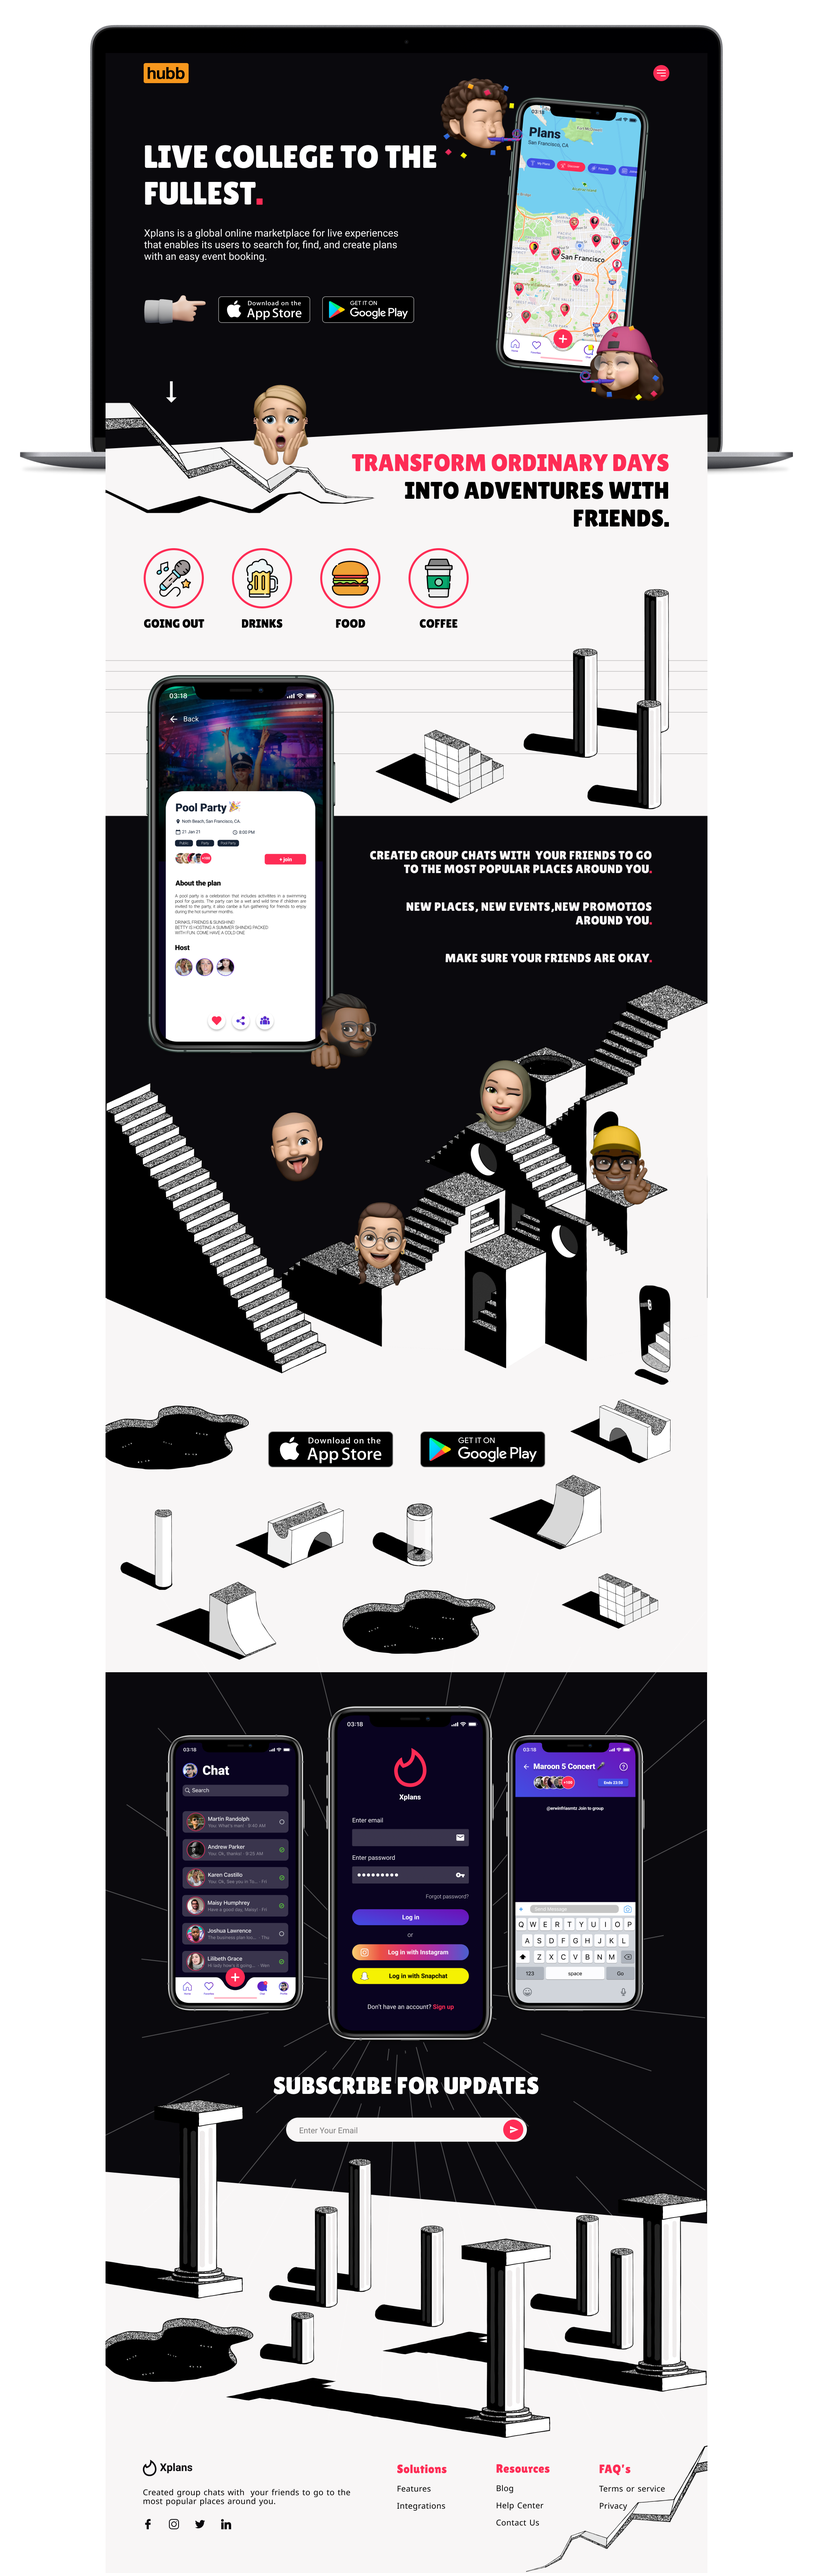
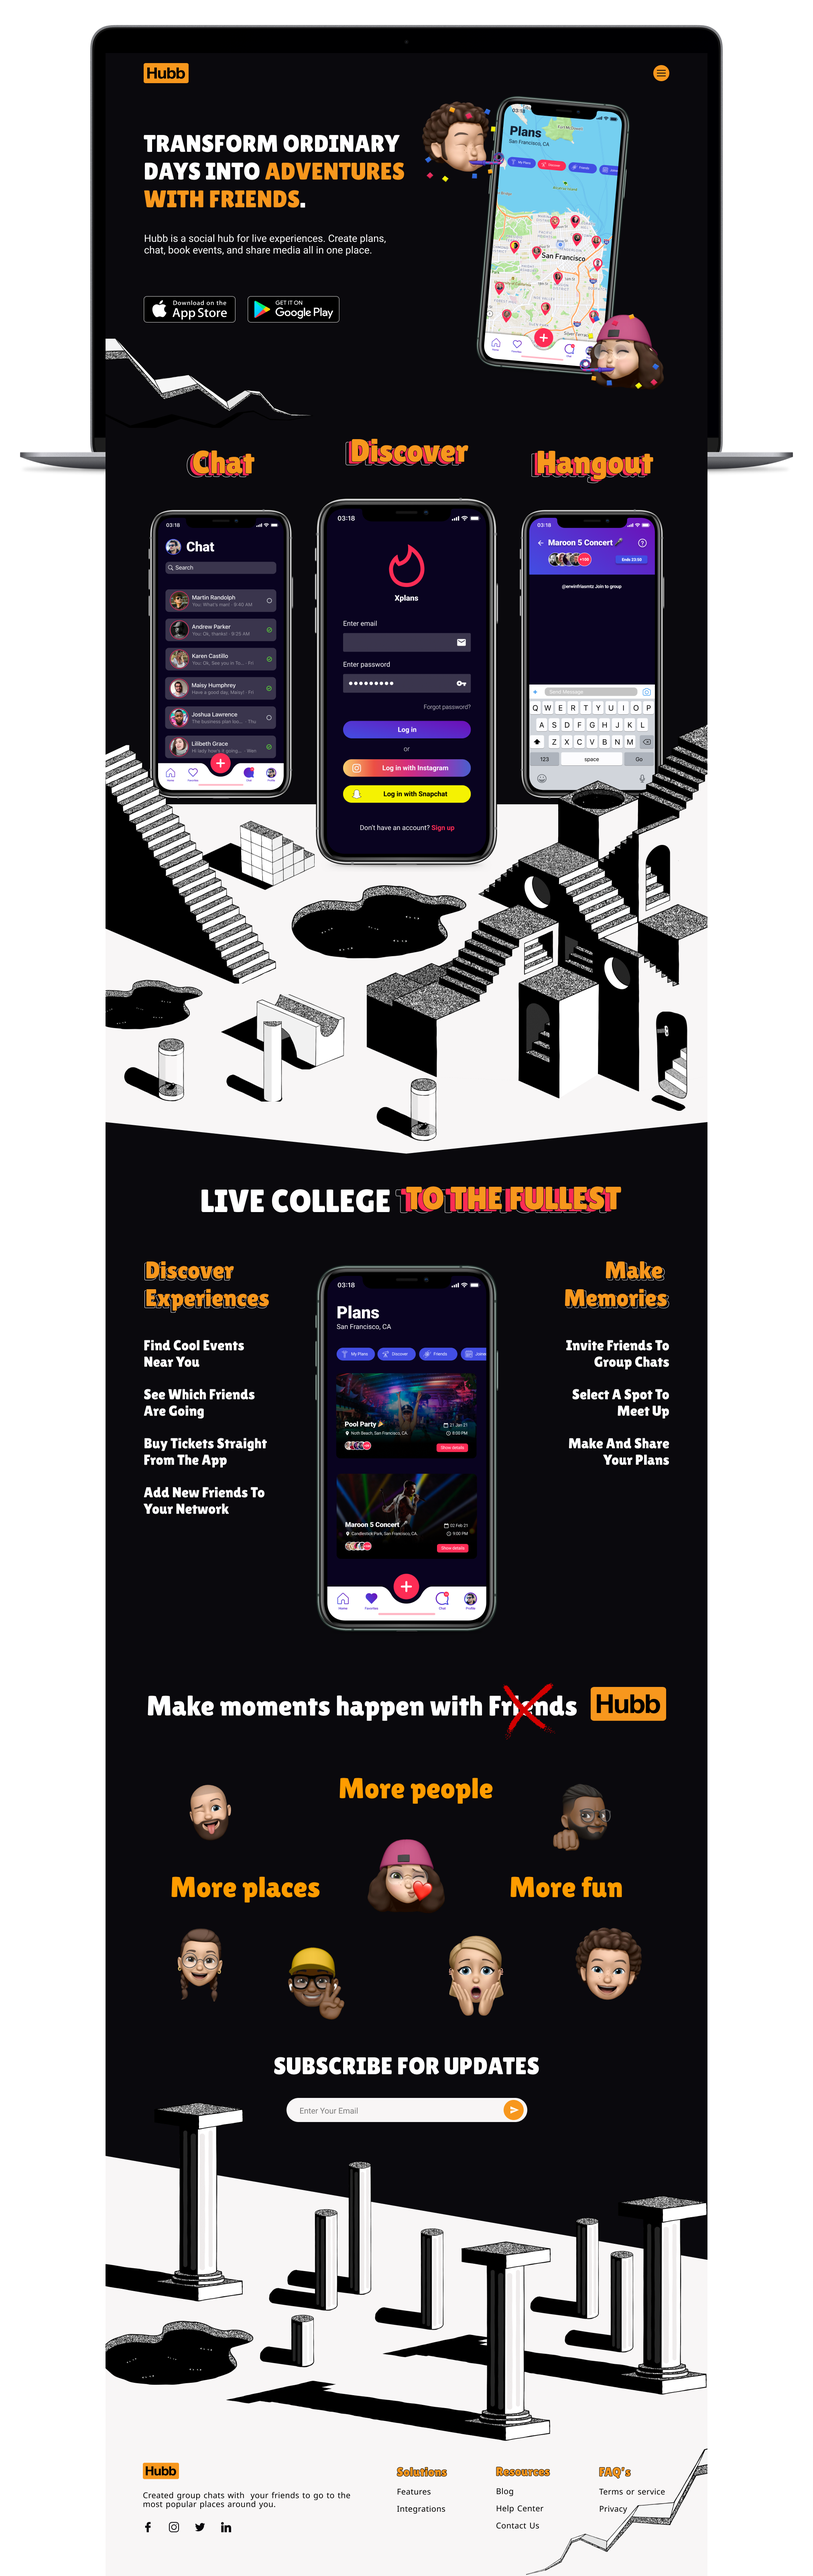
[update] repository description :pencil:

diff --git a/README.md b/README.md
@@ -1,11 +1,11 @@
-# Xplans Landing Page
+# Hubb Landing Page MVP
 
 [![npm][npm]][npm-url]
 [![node][node]][node-url]
 
-This repository contains the Front-End code for Xplans Landing Page project.
+This repository contains the Huub's Front-End code to validate the Minimum Viable Product.
 
-![Xplans Landing Page Mockup](./src/images/mockup.png)
+![Hubb LP Mockup](./src/images/mockup.png)
 
 > Front-End workflow using Webpack, PUG, SASS, SMACSS-ITCSS, BEM, PostCSS & Babel.
 
@@ -14,7 +14,7 @@ This repository contains the Front-End code for Xplans Landing Page project.
 Clone the repository to access all project history:
 
 ```sh
-git clone https://github.com/erwinfriasmtz/xplans-landingpage.git
+git clone https://github.com/erwinfriasmtz/hubb-landingpage.git
 ```
 
 Once the repository was cloned, open directory location from console and install node packages:
